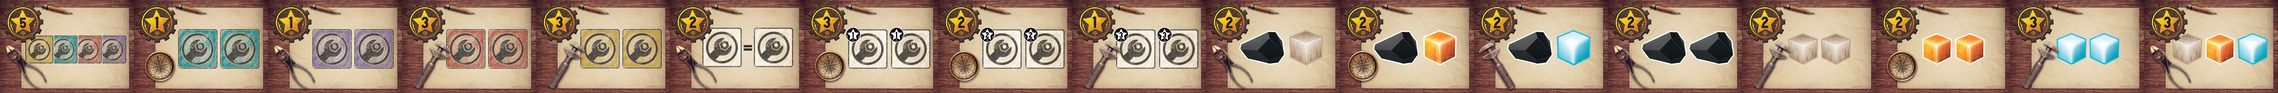
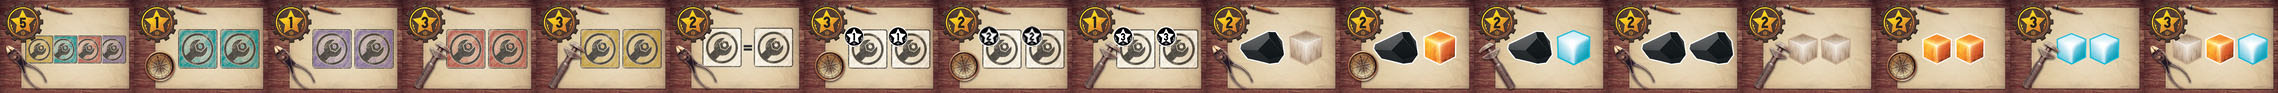
fix translations & better readability for point projects

diff --git a/nicodemus.js b/nicodemus.js
@@ -842,7 +842,8 @@ var Nicodemus = /** @class */ (function () {
                     if (!choosePlayActionArgs_1.canApplyEffect) {
                         dojo.addClass('applyEffect-button', 'disabled');
                     }
-                    this.addTooltipHtml('applyEffect-button', getMachineTooltip(getUniqueId(choosePlayActionArgs_1.machine)));
+                    // remove because it makes problems with ipad
+                    //(this as any).addTooltipHtml('applyEffect-button', getMachineTooltip(getUniqueId(choosePlayActionArgs.machine)));
                     break;
                 case 'selectResource':
                     var selectResourceArgs = args;

diff --git a/src/nicodemus.ts b/src/nicodemus.ts
@@ -263,7 +263,8 @@ class Nicodemus implements NicodemusGame {
                     if (!choosePlayActionArgs.canApplyEffect) {
                         dojo.addClass('applyEffect-button', 'disabled');
                     }
-                    (this as any).addTooltipHtml('applyEffect-button', getMachineTooltip(getUniqueId(choosePlayActionArgs.machine)));
+                    // remove because it makes problems with ipad
+                    //(this as any).addTooltipHtml('applyEffect-button', getMachineTooltip(getUniqueId(choosePlayActionArgs.machine)));
                     break;
 
                 case 'selectResource':

diff --git a/modules/php/effects.php b/modules/php/effects.php
@@ -45,7 +45,7 @@ trait EffectTrait {
             $resource = $combination[0];
             $this->addResource($playerId, 2, $resource);
 
-            self::notifyAllPlayers('addResourcesFromCombinationNotif', clienttranslate('${player_name} wins ${number} ${resourceName} with applied effect'), [
+            self::notifyAllPlayers('addResourcesFromCombinationNotif', clienttranslate('${player_name} gains ${number} ${resourceName} with applied effect'), [
                 'playerId' => $playerId,
                 'player_name' => self::getActivePlayerName(),
                 'resourceName' => $this->getResourceName($resource),
@@ -56,7 +56,7 @@ trait EffectTrait {
             foreach($combination as $selectedResource) {
                 $this->addResource($playerId, 1, $selectedResource);
 
-                self::notifyAllPlayers('addResourcesFromCombinationNotif', clienttranslate('${player_name} wins ${number} ${resourceName} with applied effect'), [
+                self::notifyAllPlayers('addResourcesFromCombinationNotif', clienttranslate('${player_name} gains ${number} ${resourceName} with applied effect'), [
                     'playerId' => $playerId,
                     'player_name' => self::getActivePlayerName(),
                     'resourceName' => $this->getResourceName($selectedResource),
@@ -124,7 +124,7 @@ trait EffectTrait {
     }
 
     function logProductionEffect(int $playerId, int $number, int $resource) {
-        self::notifyAllPlayers('applyProductionEffectNotif', clienttranslate('${player_name} wins ${number} ${resourceName} with applied effect'), [
+        self::notifyAllPlayers('applyProductionEffectNotif', clienttranslate('${player_name} gains ${number} ${resourceName} with applied effect'), [
             'playerId' => $playerId,
             'player_name' => self::getActivePlayerName(),
             'resourceName' => $this->getResourceName($resource),
@@ -189,6 +189,8 @@ trait EffectTrait {
             if (count($context->selectedResources) > 0) {
                 $discardedMachine = $machines[count($machines) - 2];
                 $this->addResourcesFromCombination($playerId, $context->selectedResources);
+                //$machineResources = $this->getResourcesFromDb($this->resources->getCardsInLocation('machine', $id));
+                //$this->moveResources(0, 0, $machineResources);
                 $this->machines->moveCard($discardedMachine->id, 'discard');
                 self::notifyAllPlayers($from == 0 ? 'discardTableMachines' : 'discardHandMachines', '', [
                     'machines' => [$discardedMachine],

diff --git a/modules/php/debug-util.php b/modules/php/debug-util.php
@@ -21,6 +21,7 @@ trait DebugUtilTrait {
         $this->debugSetMachineInTable(3, 2);
         $this->debugSetMachineInTable(4, 2, 1);
         $this->debugSetMachineInTable(3, 1);
+        $this->debugSetCharcoaliumInTable(5, 2);
         //$this->debugSetMachineInTable(3, 3);
         //$this->debugSetMachineInWorkshop(2343492, 2, 1);
         //$this->debugSetMachineInWorkshop(2343492, 2, 5, 1);
@@ -85,5 +86,13 @@ trait DebugUtilTrait {
     private function debugSetProjectInWorkshop($playerId, $type, $subType) {
         $card = $this->debugGetProjectByTypes($type, $subType);
         $this->projects->moveCard($card->id, 'player', $playerId);
+    }
+
+    private function debugSetCharcoaliumInTable(int $spot, int $number) {
+        $machine = $this->getMachinesWithResourcesFromDb($this->machines->getCardsInLocation('table', null, 'location_arg'))[$spot - 1];
+
+        $resources = $this->getResources(0, 0);
+        $movedIds = array_map(function ($r) { return $r->id; }, array_slice($resources, 0, $number));
+        $this->resources->moveCards($movedIds, 'machine', $machine->id);
     }
 }

diff --git a/modules/php/actions.php b/modules/php/actions.php
@@ -133,7 +133,7 @@ trait ActionTrait {
 
         $this->addResource($playerId, $machine->points, 0);
 
-        self::notifyAllPlayers('machinePlayedGetCharcoalium', clienttranslate('${player_name} wins ${charcoalium} charcoalium(s) with played machine'), [
+        self::notifyAllPlayers('machinePlayedGetCharcoalium', clienttranslate('${player_name} gains ${charcoalium} charcoalium(s) with played machine'), [
             'playerId' => $playerId,
             'player_name' => self::getActivePlayerName(),
             'charcoalium' => $machine->points,
@@ -158,7 +158,7 @@ trait ActionTrait {
 
         $this->addResource($playerId, 1, $resource);
 
-        self::notifyAllPlayers('machinePlayedGetResource', clienttranslate('${player_name} wins 1 ${resourceName} with played machine'), [
+        self::notifyAllPlayers('machinePlayedGetResource', clienttranslate('${player_name} gains 1 ${resourceName} with played machine'), [
             'playerId' => $playerId,
             'player_name' => self::getActivePlayerName(),
             'resourceName' => $this->getResourceName($resource),
